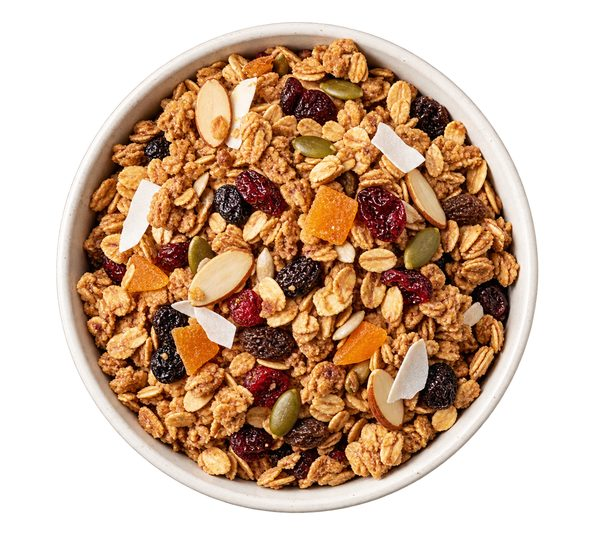
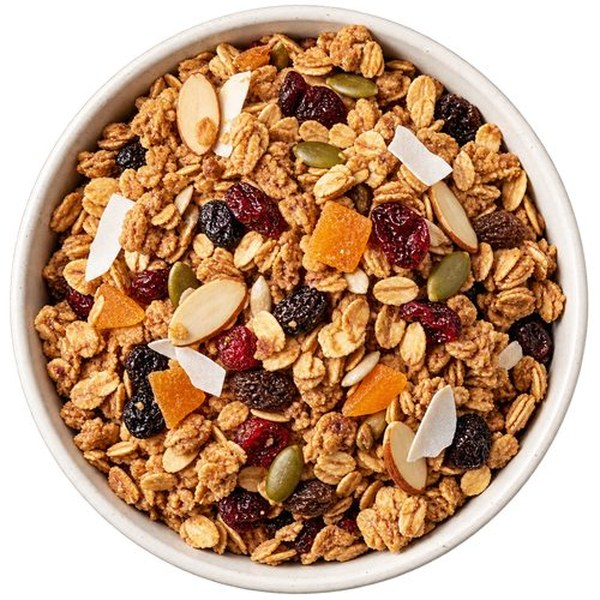
Home: consistent category plates + readable photo-poster subtitles
- Crop granola plate photo tight to the bowl so it fills the plate like the
  other categories (was floating on a white studio margin).
- Drop the green 'New' badge from the category grid and give every plate the
  same hover accent dot, so granola/oats match the rest.
- Photo-poster (image template) subtitle is now cream with a dark shadow, so
  'Power Up Mornings' / 'Real Spice, Real Taste' copy stays legible over the
  photography now that the cream scrim is gone.

diff --git a/src/components/home/CategoryGrid.tsx b/src/components/home/CategoryGrid.tsx
@@ -62,14 +62,12 @@ export function CategoryGrid({ thumbs = {} }: { thumbs?: Record<string, string> 
                     className="pointer-events-none absolute -inset-[6px] scale-90 rounded-full border-[3px] opacity-0 transition-all duration-300 group-hover:scale-100 group-hover:opacity-100"
                     style={{ borderColor: ring }}
                   />
-                  {/* little accent dot (skip when the New badge already sits here) */}
-                  {!cat.isNew && (
-                    <span
-                      aria-hidden
-                      className="pointer-events-none absolute right-[6%] top-[2%] z-20 h-3.5 w-3.5 scale-0 rounded-full opacity-0 shadow-soft-sm transition-all duration-300 group-hover:scale-100 group-hover:opacity-100"
-                      style={{ backgroundColor: ring }}
-                    />
-                  )}
+                  {/* little accent dot — same bubble on every plate */}
+                  <span
+                    aria-hidden
+                    className="pointer-events-none absolute right-[6%] top-[2%] z-20 h-3.5 w-3.5 scale-0 rounded-full opacity-0 shadow-soft-sm transition-all duration-300 group-hover:scale-100 group-hover:opacity-100"
+                    style={{ backgroundColor: ring }}
+                  />
 
                   {/* the plate */}
                   <div className="relative grid h-full w-full place-items-center overflow-hidden rounded-full bg-white shadow-soft transition-shadow duration-300 group-hover:shadow-soft-lg">
@@ -92,11 +90,6 @@ export function CategoryGrid({ thumbs = {} }: { thumbs?: Record<string, string> 
                       </span>
                     )}
 
-                    {cat.isNew && (
-                      <span className="absolute right-1 top-1 z-20 rounded-full bg-purple-600 px-2 py-0.5 text-[0.55rem] font-bold uppercase tracking-wide text-cream shadow-soft-sm">
-                        New
-                      </span>
-                    )}
                   </div>
                 </div>
 

diff --git a/src/components/home/HeroCarousel.tsx b/src/components/home/HeroCarousel.tsx
@@ -182,8 +182,16 @@ function HeroPoster({ p }: { p: Poster }) {
             {p.title}
           </h1>
           <p
-            className="mx-auto mt-6 max-w-md text-balance text-sm font-bold text-purple-900 underline decoration-gold-500 decoration-dotted decoration-2 underline-offset-4 sm:text-base lg:mx-0"
-            style={{ textShadow: "0 1px 3px rgba(255,247,236,0.95), 0 0 10px rgba(255,247,236,0.85)" }}
+            className={`mx-auto mt-6 max-w-md text-balance text-sm font-bold underline decoration-dotted decoration-2 underline-offset-4 sm:text-base lg:mx-0 ${
+              p.template === "image"
+                ? "text-cream decoration-gold-300"
+                : "text-purple-900 decoration-gold-500"
+            }`}
+            style={
+              p.template === "image"
+                ? { textShadow: "0 1px 2px rgba(18,28,12,.95), 0 2px 8px rgba(18,28,12,.85), 0 0 3px rgba(18,28,12,.9)" }
+                : { textShadow: "0 1px 3px rgba(255,247,236,0.95), 0 0 10px rgba(255,247,236,0.85)" }
+            }
           >
             {p.subtitle}
           </p>
